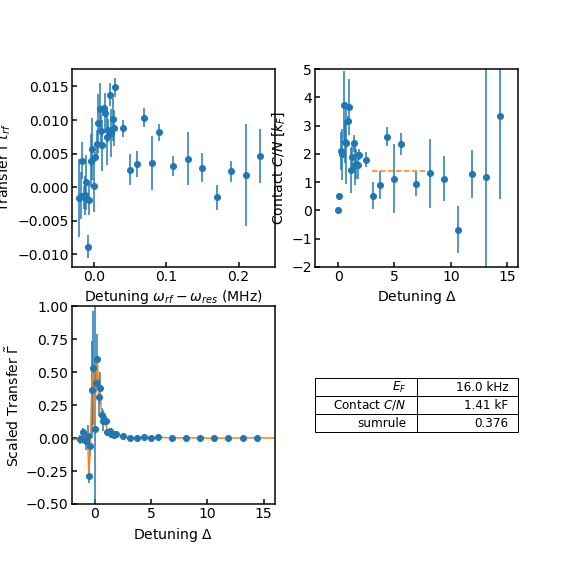
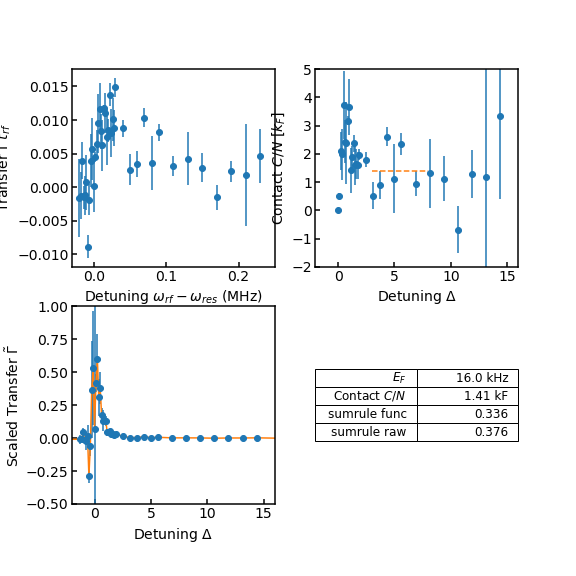
more sumrule analysis

Changed region(s): [[0.5625, 0.625, 0.9062, 0.7812]]

diff --git a/sumrule_integrate_error_analysis.py b/sumrule_integrate_error_analysis.py
@@ -12,14 +12,12 @@ import numpy as np
 import pandas as pd
 import matplotlib.pyplot as plt
 import os
-import seaborn as sns
 
-Saveon = False 
-# filename = "2024-06-12_K_e.dat"
+filename = "2024-06-12_K_e.dat"
 # filename = "2024-06-18_G_e.dat"
 # filename = "2024-06-20_C_e.dat" # reminder; had to kill 0 detuning because of scatter
 # filename = "2024-06-20_D_e.dat" # reminder; had to kill 0 detuning because of scatter
-filename = "2024-06-21_F_e.dat"
+# filename = "2024-06-21_F_e.dat"
 VVAtoVppfile = "VVAtoVpp.txt" # calibration file
 VVAs, Vpps = np.loadtxt(VVAtoVppfile, unpack=True)
 VpptoOmegaR = 27.5833 # kHz
@@ -32,18 +30,60 @@ def VVAtoVpp(VVA):
 			Vpp = Vpps[i]
 	return Vpp
 
+def trapz_w_error(xs, ys, yserr, num_iter=1000):
+	""" Computes trapz for list of data points (xs, ys+-yserr),
+	and estimates std dev of result by sampling ys and yserr from 
+	Gaussian distributions, num_iter (default 1000) times."""
+# 	value = np.trapz(ys, x=xs)
+	def rand_y(y, yerr, size):
+		generator = np.random.default_rng()
+		return generator.normal(loc=y, scale=yerr, size=num_iter)
+	# array of lists of y values, sampled from Gaussians with centres y and widths yerr
+	ys_iter = np.array([rand_y(y, yerr, num_iter) for y, yerr in zip(ys, yserr)])
+	values = np.array([np.trapz(ys_iter[:,i], x=xs) for i in range(num_iter)])
+	distr_mean, distr_stdev = (np.mean(values), np.std(values))
+	return values, distr_mean, distr_stdev
+
+
+def trapz_interp_w_error(xs, ys, yserr, num_iter=1000):
+	""" Computes trapz for interpolated list of data points (xs, ys+-yserr),
+	and estimates std dev of result by sampling ys and yserr from 
+	Gaussian distributions, num_iter (default 1000) times."""
+	num_iter = 10
+# 	value = np.trapz(ys, x=xs)
+	def rand_y(y, yerr, size):
+		generator = np.random.default_rng()
+		return generator.normal(loc=y, scale=yerr, size=num_iter)
+	# array of lists of y values, sampled from Gaussians with centres y and widths yerr
+	ys_iter = np.array([rand_y(y, yerr, num_iter) for y, yerr in zip(ys, yserr)])
+	
+	num = 1000
+	xs_interp = np.linspace(min(xs), max(xs), num)
+	
+	ys_interp_iter = np.array([[np.interp(xi, xs, ys_iter[:,i]) for xi in xs_interp]
+					  for i in range(num_iter)])
+
+	
+	print(ys_interp_iter[:10,:10])
+	
+	# integrals using each interpolation function
+	values = np.array([np.trapz(ys_interp_iter[i], x=xs_interp) for i in range(num_iter)])
+	
+	distr_mean, distr_stdev = (np.mean(values), np.std(values))
+	return values, distr_mean, distr_stdev
+
 ### run params
 xname = 'freq'
 ff = 1.03
-trf = 400e-6  # 200 or 400 us
+trf = 200e-6  # 200 or 400 us
 EF = 16e-3 #MHz
 bg_freq = 47  # chosen freq for bg, large negative detuning
 res_freq = 47.2159 # for 202.1G
-pulsetype = 'Blackman'
-# pulse_area = 0.3 # Blackman
-# pulse_area = np.sqrt(0.3*0.92) # for kaiser - maybe? for first 4
-pulse_area=np.sqrt(0.3) # if using real Blackman
-gain = 0.05 # scales the VVA to Vpp tabulation
+pulsetype = 'Kaiser'
+pulse_area = 0.3 # Blackman
+pulse_area = np.sqrt(0.3*0.92) # maybe? for first 4
+# pulse_area=np.sqrt(0.3) # if using real Blackman
+gain = 0.2 # scales the VVA to Vpp tabulation
 
 ### create data structure
 run = Data(filename)
@@ -56,13 +96,16 @@ bgc5 = run.data[run.data[xname]==bg_freq]['c5'].mean()
 run.data['N'] = run.data['c5']-bgc5*np.ones(num)+run.data['c9']*ff
 run.data['transfer'] = (run.data['c5'] - bgc5*np.ones(num))/run.data['N']
 run.data['detuning'] = run.data[xname] - res_freq*np.ones(num) # MHz
-run.data['Vpp'] = run.data['vva'].apply(VVAtoVpp)
+try:
+	run.data['Vpp'] = run.data['vva'].apply(VVAtoVpp)
+except KeyError:
+	run.data['Vpp'] = run.data['VVA'].apply(VVAtoVpp)
 run.data['OmegaR'] = 2*pi*pulse_area*gain*VpptoOmegaR*run.data['Vpp']
 
 run.data['ScaledTransfer'] = run.data.apply(lambda x: GammaTilde(x['transfer'],
 								h*EF*1e6, x['OmegaR']*1e3, trf), axis=1)
 run.data['C'] = run.data.apply(lambda x: 2*np.sqrt(2)*pi**2*x['ScaledTransfer'] * \
-								   (x['detuning']/EF)**(3/2), axis=1)
+								   (np.abs(x['detuning'])/EF)**(3/2), axis=1)
 # run.data = run.data[run.data.detuning != 0]
 
 	
@@ -106,21 +149,23 @@ ylabel = r"Scaled Transfer $\tilde\Gamma$"
 
 xlims = [-2,16]
 axxlims = [-2,16]
-ylims = [-0.5,1]
-xs = np.linspace(xlims[0], xlims[-1], len(y))
+ylims = [run.data['ScaledTransfer'].min()*10, run.data['ScaledTransfer'].max()]
+num = len(y)
+num = 10000
+xs = np.linspace(xlims[0], xlims[-1], num)
 
 ax.set(xlabel=xlabel, ylabel=ylabel, xlim=axxlims, ylim=ylims)
 ax.errorbar(x, y, yerr=yerr, fmt='o')
-ax.plot(x, y, '-')
+ax.plot(xs, TransferInterpFunc(xs), '-')
 
-### sum rule 
-fig,ax3 = plt.subplots()
-ax3.plot(TransferInterpFunc(xs),xs,linestyle='',marker='.')
-ax3.plot(y,x,linestyle='',marker='.')
-
-sumrulefunc = np.trapz(TransferInterpFunc(xs), x=xs)
+sumrule_interp = np.trapz(TransferInterpFunc(xs), x=xs)
+sumrule_distr, sumrule_mean, sumrule_std = trapz_w_error(x, y, yerr, num)
+sumrule_distr_interp, sumrule_mean_interp, sumrule_std_interp = trapz_interp_w_error(x, y, yerr, num)
 sumrule = np.trapz(y, x=x)
-print("sumrule = {:.3f}".format(sumrule))
+print("interpolated sumrule = {:.3f}".format(sumrule_interp))
+print("raw data sumrule = {:.3f}".format(sumrule))
+print("sumrule mean = {:.3f}\pm {:.3f}".format(sumrule_mean, sumrule_std))
+print("sumrule interp mean = {:.3f}\pm {:.3f}".format(sumrule_mean_interp, sumrule_std_interp))
 
 ### plot contact
 ax = axs[0,1]
@@ -131,7 +176,7 @@ xlabel = r"Detuning $\Delta$"
 ylabel = r"Contact $C/N$ [$k_F$]"
 
 xlims = [-2,16]
-ylims = [-2, 5]
+ylims = [run.data['C'].min(), run.data['C'].max()]
 Cdetmin = 3
 Cdetmax = 8
 xs = np.linspace(Cdetmin, Cdetmax, num)
@@ -147,10 +192,9 @@ ax.plot(xs, Cmean*np.ones(num), "--")
 ax = axs[1,1]
 ax.axis('off')
 ax.axis('tight')
-quantities = ["$E_F$", "Contact $C/N$", "sumrule func", "sumrule raw"]
+quantities = ["$E_F$", "Contact $C/N$", "sumrule"]
 values = ["{:.1f} kHz".format(EF*1e3), 
 		  "{:.2f} kF".format(Cmean), 
-		  "{:.3f}".format(sumrulefunc),
 		  "{:.3f}".format(sumrule)]
 table = list(zip(quantities, values))
 
@@ -160,85 +204,3 @@ the_table.set_fontsize(12)
 the_table.scale(1,1.5)
 
 plt.show()
-
-
-datatosave = {'SumRule from Interpolation Function': [sumrulefunc], 
-			  'Sumrule from raw data': [sumrule],
-			  'Gain':[gain], 'Run':[filename], 
-			  'C/N':[Cmean],
-			  'Max Scaled Transfer':[maxfp], 'Pulse Time (us)':[trf*1e6],
-			  'Pulse Area':[pulse_area], 'Pulse Type':[pulsetype]}
-datatosavedf = pd.DataFrame(datatosave)
-
-datatosave_folder = 'SavedSumRule'
-runfolder = filename 
-figpath = os.path.join(datatosave_folder,runfolder)
-os.makedirs(figpath, exist_ok=True)
-
-sumrulefig_name = 'SumRule.png'
-sumrulefig_path = os.path.join(figpath,sumrulefig_name)
-fig.savefig(sumrulefig_path)
-	
-xlsxsavedfile = 'Saved_Sum_Rules.xlsx'
-
-filepath = os.path.join(datatosave_folder,xlsxsavedfile)
-
-### if you want to change the headers you need this on then it makes 2 lines so delete the duplicate
-# and comment out after
-# datatosavedf.to_excel(filepath,index=False)
-
-if Saveon == True:
- 	
- 	datatosave = {'SumRule from Interpolation Function': [sumrulefunc], 
- 			  'Sumrule from raw data': [sumrule],
- 			  'Gain':[gain], 'Run':[filename], 
- 			  'C/N':[Cmean],
- 			  'Max Scaled Transfer':[maxfp], 'Pulse Time (us)':[trf*1e6],
- 			  'Pulse Area':[pulse_area], 'Pulse Type':[pulsetype]}
- 	datatosavedf = pd.DataFrame(datatosave)
-
- 	datatosave_folder = 'SavedSumRule'
- 	runfolder = filename 
- 	figpath = os.path.join(datatosave_folder,runfolder)
- 	os.makedirs(figpath, exist_ok=True)
-
- 	sumrulefig_name = 'SumRule.png'
- 	sumrulefig_path = os.path.join(figpath,sumrulefig_name)
- 	fig.savefig(sumrulefig_path)
- 	
- 	xlsxsavedfile = 'Saved_Sum_Rules.xlsx'
- 	
- 	filepath = os.path.join(datatosave_folder,xlsxsavedfile)
- 	try:
-		 existing_data = pd.read_excel(filepath, sheet_name='Sheet1')
- 	except FileNotFoundError:
-		 existing_data = None
- 	new_data = datatosavedf
-		
- 	with pd.ExcelWriter(filepath, mode='a', if_sheet_exists='overlay', engine='openpyxl') as writer:
-		 if existing_data is not None:
- 			start_row = existing_data.shape[0] + 1
- 			new_data.to_excel(writer, index=False, header=False, sheet_name='Sheet1', startrow=start_row)
-		 else: 
- 			new_data.to_excel(writer, index=False, sheet_name='Sheet1')
-
- 	
-fig, ax2 = plt.subplots()
-
-sumruleexceldf = pd.read_excel(filepath, index_col=0, engine='openpyxl').reset_index()
-# sumrules = np.array([.353,.336,.373,.443])
-sumrules = sumruleexceldf['SumRule from Interpolation Function']
-
-# gain = np.array([.3,.2,.1,.05])
-gain = sumruleexceldf['Gain']
-
-# CoN = np.array([.85,.98,1.08,1.44])
-CoN = sumruleexceldf['C/N']
-
-C = CoN/(sumrules/0.5)
-
-marker_dict  = {'Kaiser': 'd', 'Blackman': '.'}
-colors = {'Kaiser': 'blue', 'Blackman': 'red'}
-
-ax2 = sns.scatterplot(data=sumruleexceldf, x=gain, y=CoN, hue=sumruleexceldf['Pulse Type'], style=sumruleexceldf['Pulse Type'], s=100)
-ax2.plot(gain,CoN,linestyle='')
